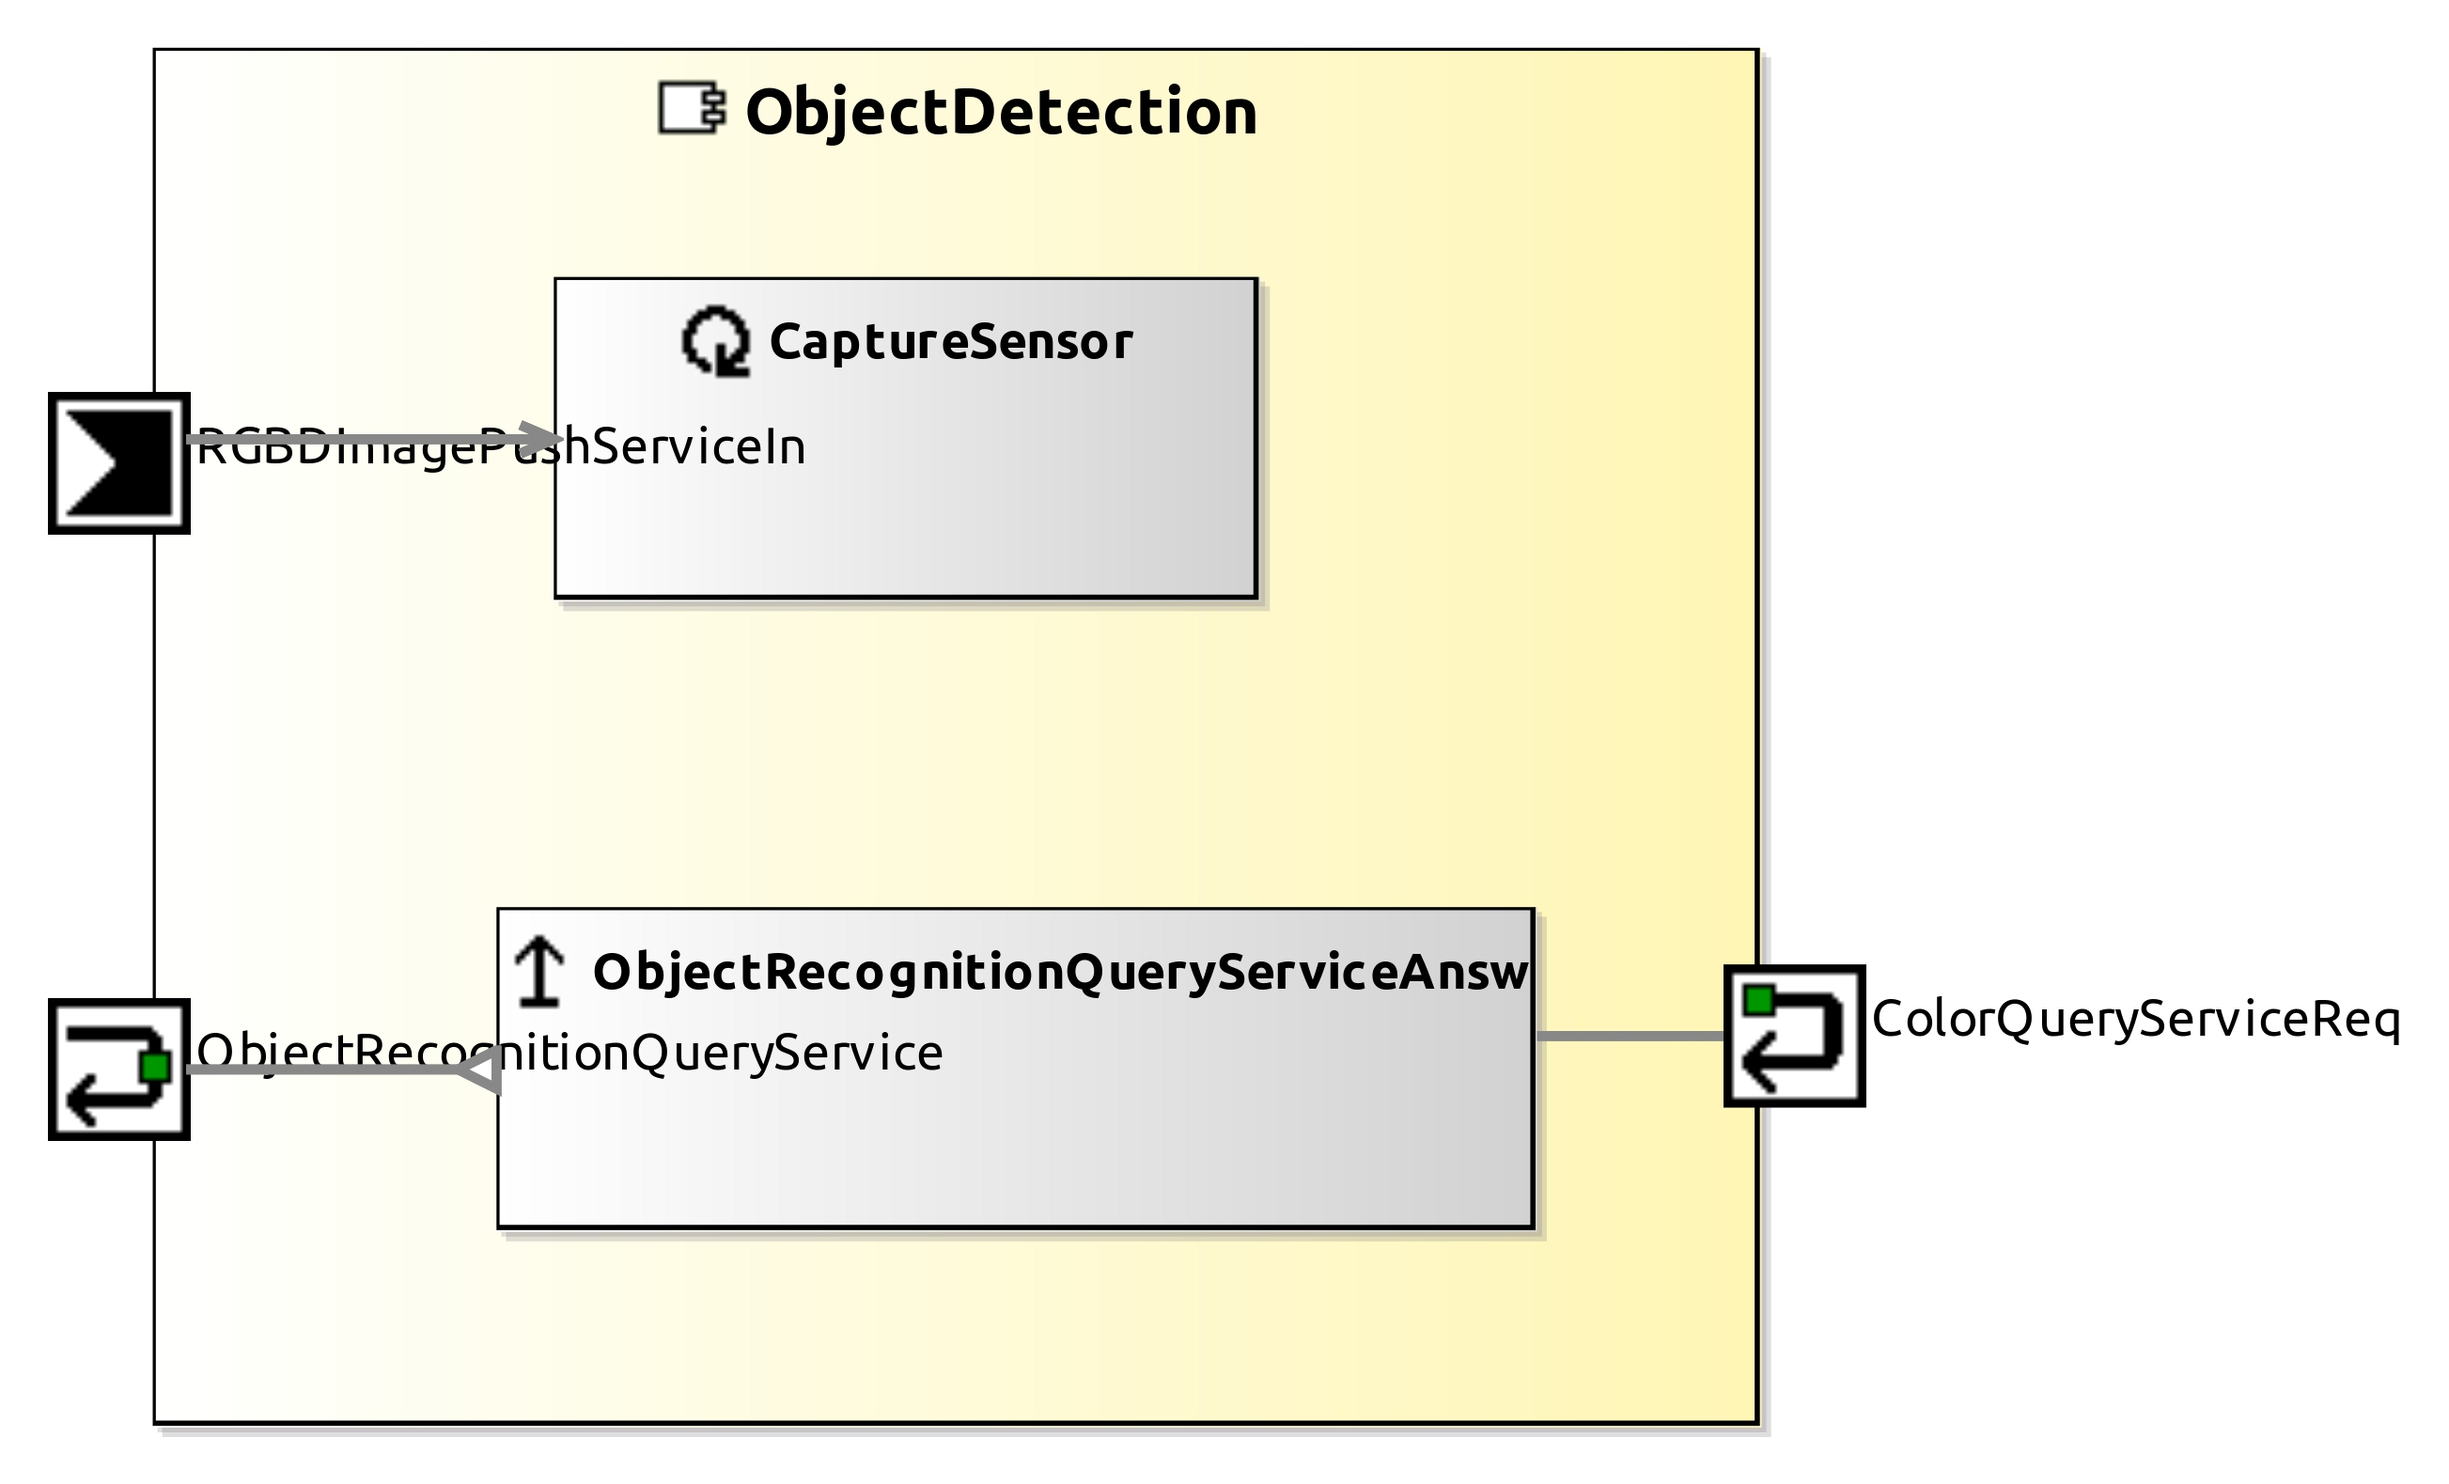
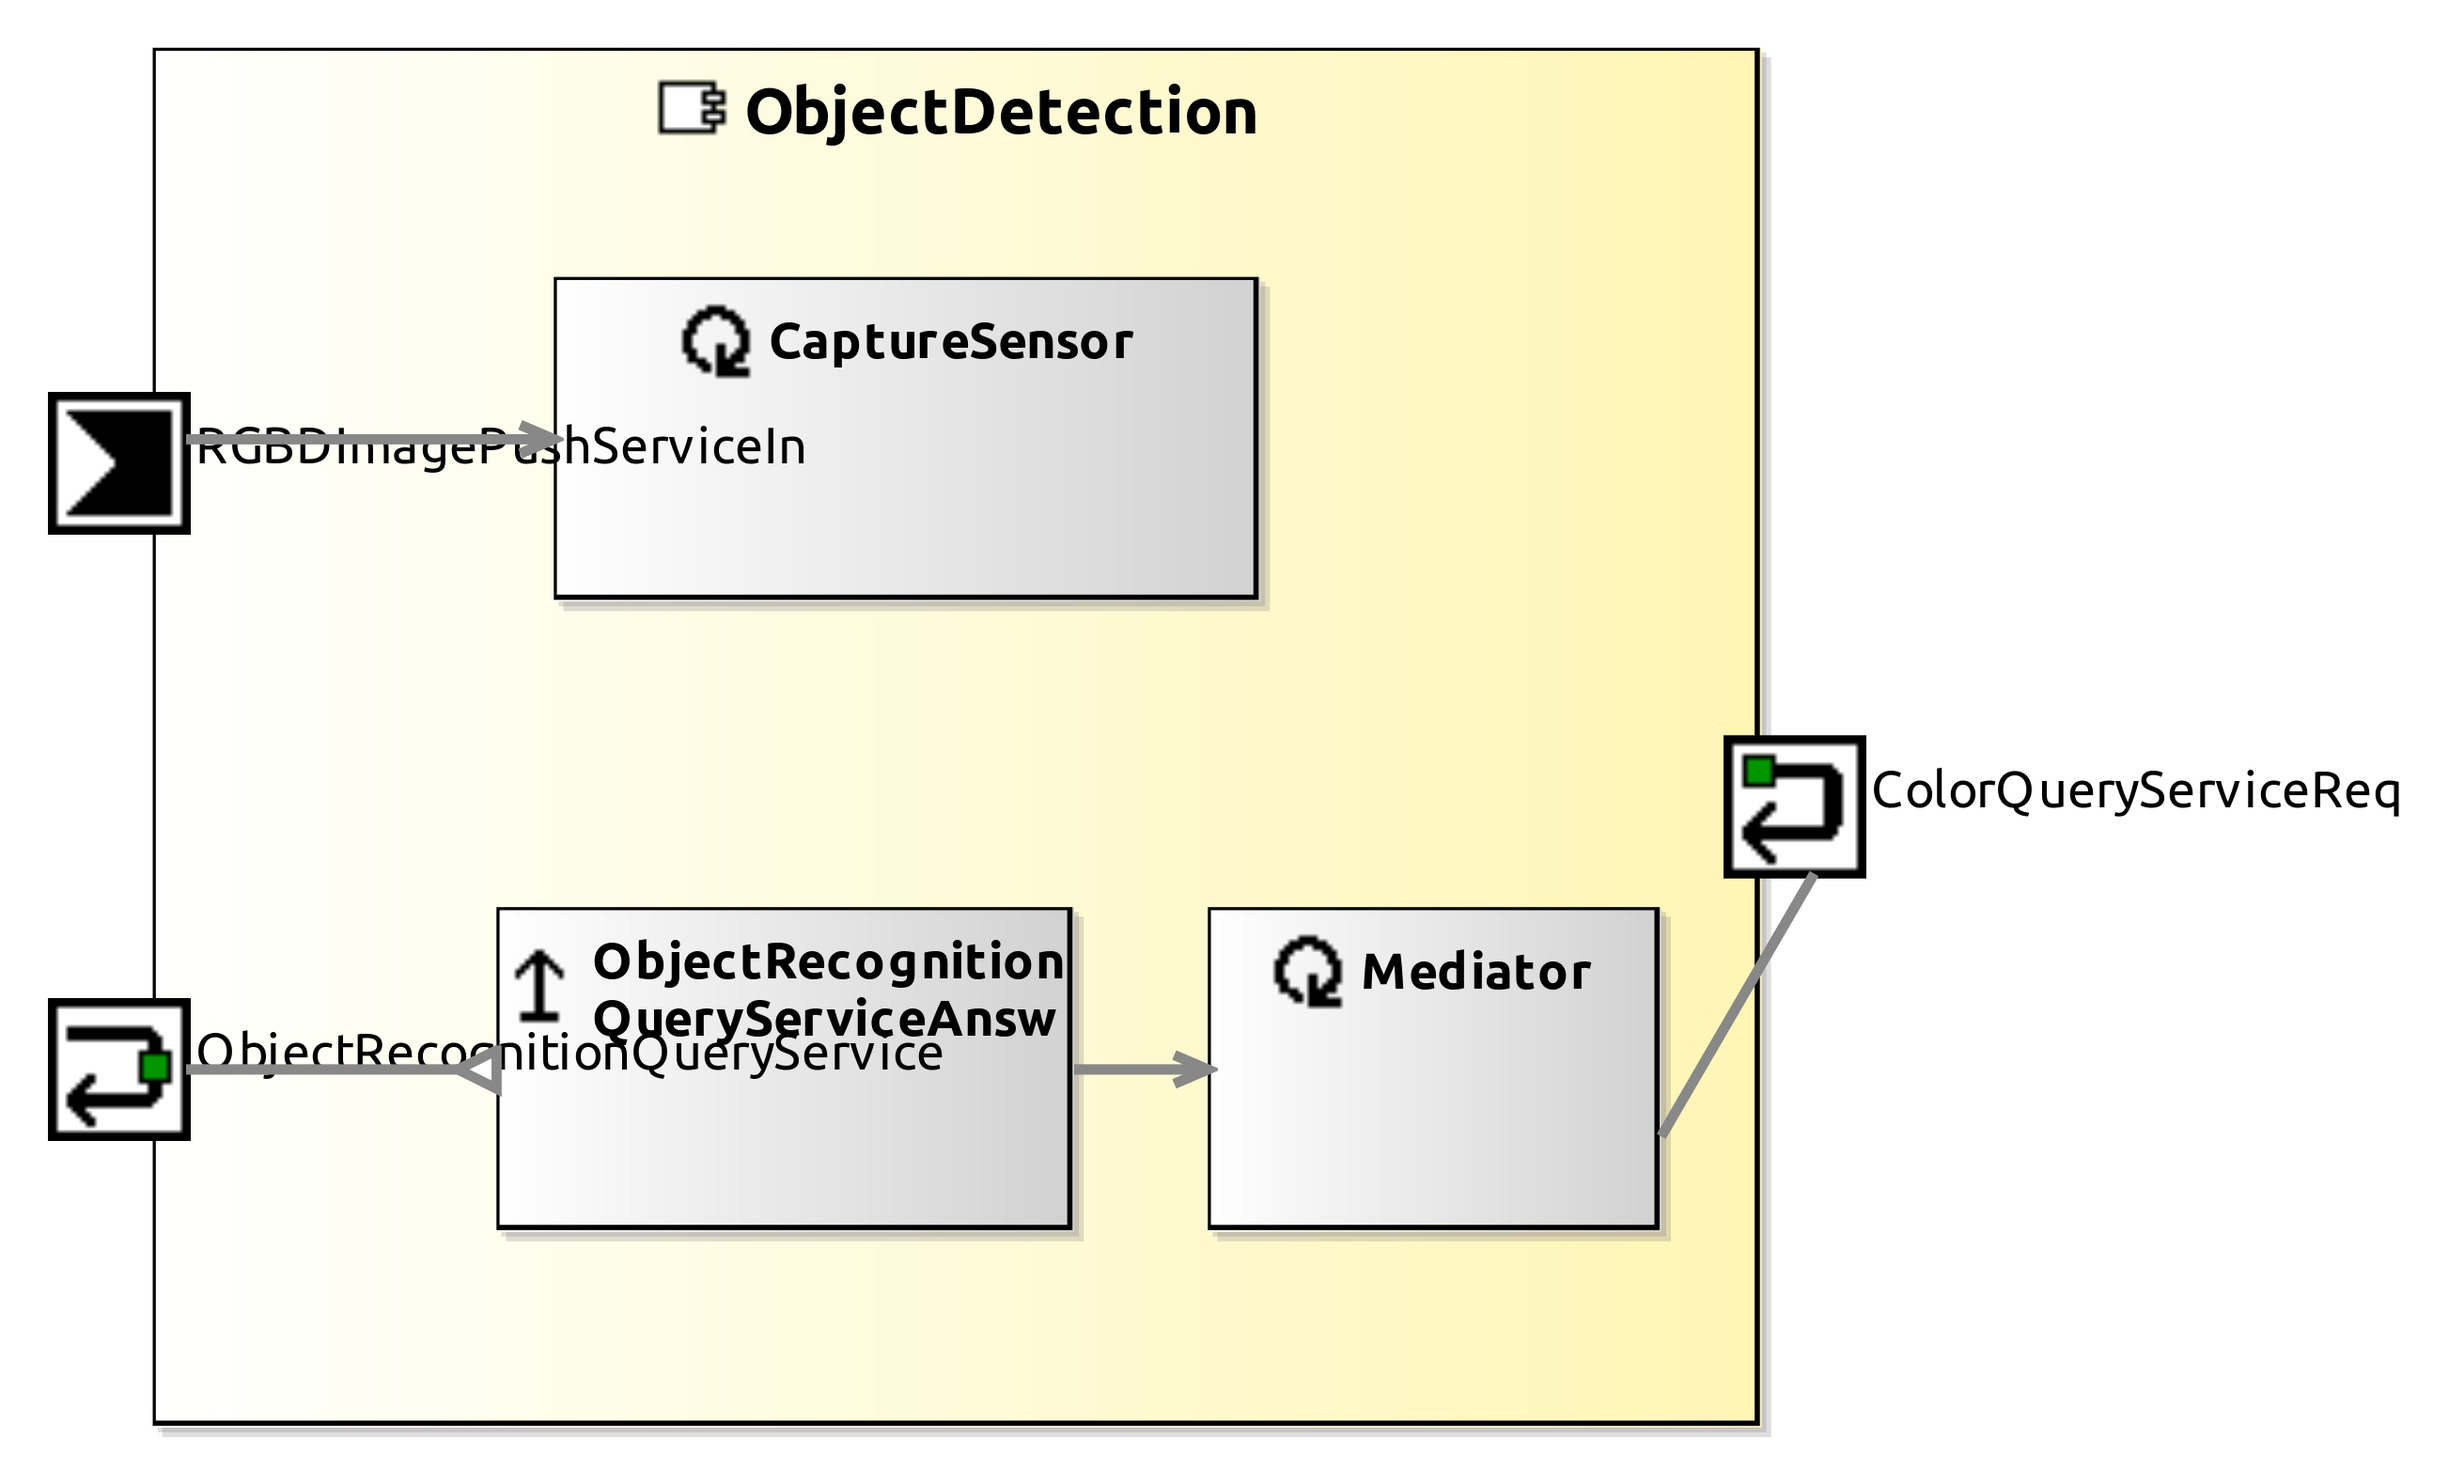
momentary solution to service problem

Changed region(s): [[0.1865, 0.4965, 0.9946, 0.8379]]

diff --git a/ObjectDetection/smartsoft/src/ObjectRecognitionQueryServiceAnsw.cc b/ObjectDetection/smartsoft/src/ObjectRecognitionQueryServiceAnsw.cc
@@ -33,48 +33,24 @@ ObjectRecognitionQueryServiceAnsw::~ObjectRecognitionQueryServiceAnsw()
 	
 }
 
+void ObjectRecognitionQueryServiceAnsw::setAnswer(CommObjectRecognitionObjects::CommPoint2d input)
+{
+	this->serviceAnswer = input ;
+}
+
 
 #include <thread>
 #include <chrono>
 
 void ObjectRecognitionQueryServiceAnsw::handleQuery(const SmartACE::QueryId &id, const CommObjectRecognitionObjects::CommObjectRecognitionInformation& request) 
 {
-	std::cout<< "[ObjectRecognitionQuery] start query"<<std::endl;
+
 	std::cout<< "[ObjectRecognitionQuery] roi width:"<<request.getRoi().getWidth() <<", height:"<<request.getRoi().getHeight()<<std::endl;
 
 	CommObjectRecognitionObjects::CommObjectRecognitionObjectProperties answer;
 	
-
-	SmartACE::QueryId colorQueryId = 12;
-	CommObjectRecognitionObjects::CommColorDetection imageInformation;
-	imageInformation.setRoi(request.getRoi());
-
-	CommObjectRecognitionObjects::CommPoint2d objectInformation;
-
-
-	Smart::StatusCode status2 = COMP->colorQueryServiceReq->query(imageInformation, objectInformation);
-
-	if(status2 != Smart::SMART_OK) {
-		std::cerr << "objectRecognitionQueryServiceReq: " << Smart::StatusCodeConversion(status2)<< std::endl;
-	}
-
-
-//
-//	Smart::StatusCode status2 = COMP->colorQueryServiceReq->queryRequest(imageInformation, colorQueryId);
-////	cv::waitKey(0);
-//	if(status2 != Smart::SMART_OK) {
-//		std::cerr << "objectRecognitionQueryServiceReq: " << Smart::StatusCodeConversion(status2)<< std::endl;
-//	}
-//	std::this_thread::sleep_for (std::chrono::seconds(3));
-//			//(image_information, object_information);
-//	status2 = COMP->colorQueryServiceReq->queryReceive(colorQueryId, objectInformation);
-//	if(status2 != Smart::SMART_OK) {
-//		std::cerr << "objectRecognitionQueryServiceReq: " << Smart::StatusCodeConversion(status2)<< std::endl;
-//	}
-
-//	status2 = COMP->colorQueryServiceReq->queryReceive(colorQueryId, objectInformation);
-//
-//	std::cout<< "[ObjectRecognitionQuery] Object detected, position  x:"<<objectInformation.getX()<<", y:"<<objectInformation.getY()<<std::endl;
+	COMP->evaluateColorSegmentation = true;
+	COMP->roiObject = request.getRoi();
 
 	//	TODO Pasar de 2d a 3d con object_information
 	CommBasicObjects::CommPose3d p_object;

diff --git a/ColorSegmentation/smartsoft/src/ColorQueryService.cc b/ColorSegmentation/smartsoft/src/ColorQueryService.cc
@@ -32,29 +32,31 @@ ColorQueryService::~ColorQueryService()
 void ColorQueryService::handleQuery(const SmartACE::QueryId &id, const CommObjectRecognitionObjects::CommColorDetection& request) 
 {
 	CommObjectRecognitionObjects::CommPoint2d answer;
-//	answer.setX(10);
-//	std::cout<< "[ColorQueryService] roi width:"<<request.getRoi().getWidth() <<", height:"<<request.getRoi().getHeight()<<std::endl;
-	
-//	if(COMP->newestImageStatus == Smart::SMART_OK){
-//
-//		cv::Mat image = COMP->get_Mat(COMP->newestImage);
-//
-//	//	cv::Mat subImg = image(cv::Range(request.getRoi().getPoint().getX() , request.getRoi().getWidth()),
-//	//	cv::Range(request.getRoi().getPoint().getY(), request.getRoi().getHeight()));   //TODO
-//
-//		cv::Mat mask = COMP->Segmentation(image);
-//		cv::Point p_object = COMP->Countour(mask);
-//
-//		answer.setX(p_object.x);
-//	//	answer.setY(p_object.y);
-//		std::cout<< "[ColorQueryService] finish process "<<std::endl;
-//	}
 
+	if(COMP->newestImageStatus == Smart::SMART_OK){
 
-	Smart::StatusCode  status2 = this->server->answer(id, answer);
-		if(status2 != Smart::SMART_OK) {
-			std::cerr << "[ColorQueryService] error : " << Smart::StatusCodeConversion(status2)<< std::endl;
+		cv::Mat image = COMP->get_Mat(COMP->newestImage), subImg;
+//		cv::imwrite("completeiamge.png", image);
+
+		if(request.getRoi().getWidth() *request.getRoi().getHeight() == 0 )
+			subImg = image;
+		else{
+			subImg = image(cv::Range(request.getRoi().getPoint().getX() , request.getRoi().getWidth()),
+			cv::Range(request.getRoi().getPoint().getY(), request.getRoi().getHeight()));   //TODO
+//			cv::imwrite("subimage.png", subImg);
 		}
 
-	std::cout<< "[ColorQueryService] finish process "<<std::endl;
+		cv::Mat mask = COMP->Segmentation(subImg);
+//		cv::imwrite("maskimage.png", mask);
+
+		cv::Point p_object = COMP->Countour(mask);
+
+		answer.setX(p_object.x);
+		answer.setY(p_object.y);
+		std::cout<< "[ColorQueryService] finish process "<<std::endl;
+	}
+
+	this->server->answer(id, answer);
+
+
 }

diff --git a/ObjectDetection/smartsoft/src/CaptureSensor.cc b/ObjectDetection/smartsoft/src/CaptureSensor.cc
@@ -23,6 +23,7 @@ CaptureSensor::CaptureSensor(SmartACE::SmartComponent *comp)
 :	CaptureSensorCore(comp)
 {
 	std::cout << "constructor CaptureSensor\n";
+
 }
 CaptureSensor::~CaptureSensor() 
 {
@@ -39,6 +40,29 @@ CaptureSensor::~CaptureSensor()
 //	//   there, use the method rGBDImagePushServiceInGetUpdate(input) to get a copy of the input object
 //}
 //
+void CaptureSensor::ColorSegmentation()
+{
+	SmartACE::QueryId colorQueryId = 12;
+	CommObjectRecognitionObjects::CommColorDetection imageInformation;
+	imageInformation.setRoi(COMP->roiObject );
+
+	CommObjectRecognitionObjects::CommPoint2d objectInformation;
+
+
+	Smart::StatusCode status2 = COMP->colorQueryServiceReq->query(imageInformation, objectInformation);
+
+	if(status2 != Smart::SMART_OK) {
+		std::cerr << "objectRecognitionQueryServiceReq: " << Smart::StatusCodeConversion(status2)<< std::endl;
+	}
+
+	colorSegmentation_point = objectInformation;
+//	status2 = COMP->colorQueryServiceReq->queryReceive(colorQueryId, objectInformation);
+//	CommObjectRecognitionObjects::CommObjectRecognitionObjectProperties answer_update;
+	std::cout<< "[ObjectRecognitionQuery] Object detected, position  x:"<<objectInformation.getX()<<", y:"<<objectInformation.getY()<<std::endl;
+//	objectRecognitionQueryServiceAnsw-> = objectInformation;
+}
+
+
 int CaptureSensor::on_entry()
 {
 	// do initialization procedures here, which are called once, each time the task is started
@@ -48,6 +72,10 @@ int CaptureSensor::on_entry()
 int CaptureSensor::on_execute()
 {
 
+		if(COMP->evaluateColorSegmentation){
+			ColorSegmentation();
+			COMP->evaluateColorSegmentation = false;
+		}
 //	std::cout << "Hello from CaptureSensor " << std::endl;
 
 	// it is possible to return != 0 (e.g. when the task detects errors), then the outer loop breaks and the task stops

diff --git a/ObjectDetection/smartsoft/src/ObjectDetectionCore.cc b/ObjectDetection/smartsoft/src/ObjectDetectionCore.cc
@@ -15,9 +15,10 @@
 // delete it before running the code generator.
 //--------------------------------------------------------------------------
 #include "ObjectDetectionCore.hh"
-
+#include <DomainVision/CommRGBDImage.hh>
 // constructor
 ObjectDetectionCore::ObjectDetectionCore()
 {
 	std::cout << "constructor ObjectDetectionCore\n";
+	evaluateColorSegmentation = false;
 }
